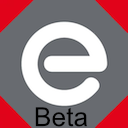
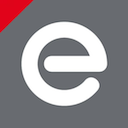
edit

diff --git a/deconz_beta/DOCS.md b/deconz_beta/DOCS.md
@@ -5,7 +5,7 @@
 Follow these steps to get the add-on installed on your system:
 
 1. Navigate in your Home Assistant frontend to **Supervisor** -> **Add-on Store**.
-2. Find the "deCONZ Beta" add-on and click it.
+2. Find the "deCONZ" add-on and click it.
 3. Click on the "INSTALL" button.
 
 ## How to use
